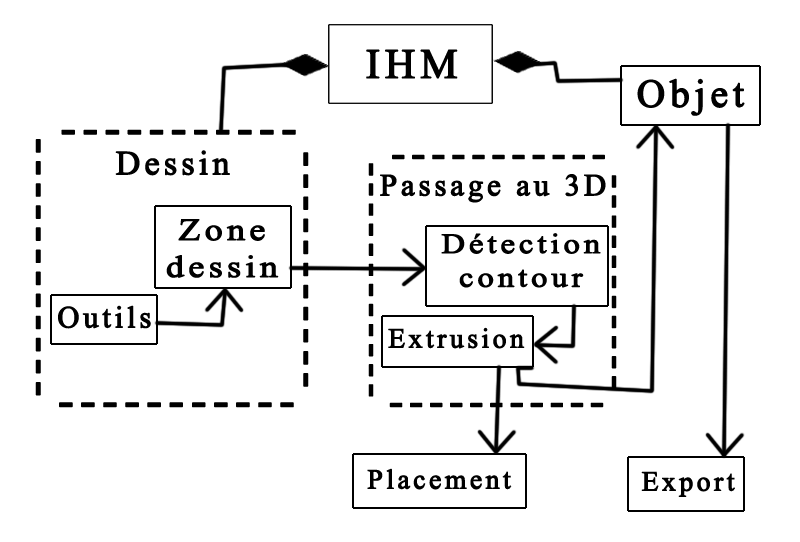
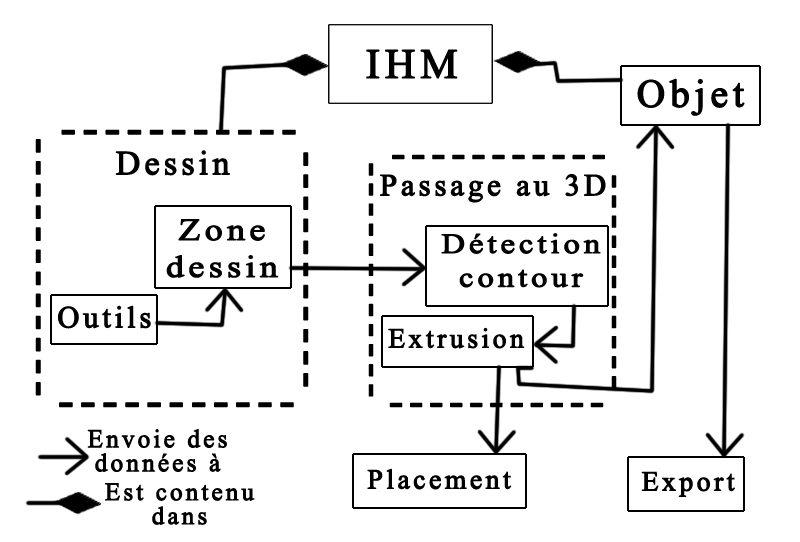
Archiecture/ihm (non corigé)

Changed region(s): [[0.0312, 0.797, 0.3125, 0.9742]]

diff --git a/RapportLaTeX/rapport.tex b/RapportLaTeX/rapport.tex
@@ -57,22 +57,28 @@
 		Une fois tout ces points définis , nous avons pu passer à l'étape suivante, c'est-à-dire l'architecture du logiciel.
 		
 	\section{Architecture logicielle}
-	
+		Nous avons découpé le logiciel en plusieurs sous parties qui peuvent être développer indépendamment. Les liens entre les parties obligent à crée des fonctions qui envoie certaines données. L'avantage de cette découpe est qu'une étape est en majorité indépendante de la précédente. Donc on peut développer et tester chaque partie de façon optimiser avant de tout réunir et lié.
+		
+		Nous avons omis dans le schéma la caméra de prévisualisation, elle est contenu dans
+		'Objet', qui représente l'assemblage des divers dessins 2D extrudés.
+
 				\centerline{\includegraphics[scale=0.5]{images/archi.png}}
 	
-		%découpage des tâches et répartition du travail + explication séances hebdomadaires
-		Dès le début du projet, nous nous sommes divisés le travail et nous avons hébergé notre projet sous GitHub afin que chacun puisse avancer sans pour autant devoir attendre le travail d'un autre membre de notre équipe. Nous avons repéré les axes centraux du développement qui sont : l'affichage de la fenêtre de l'application, la capture et l'affichage du dessin fait par l'utilisateur, l'extrusion de la forme dessinée, le placement de celle-ci, et enfin l'exportation de la figure finale sur un serveur Unity. Ceux-ci ont donc été partagés entre nous.
+	%	Dès le début du projet, nous nous sommes divisés le travail et nous avons hébergé notre projet sous GitHub afin que chacun puisse avancer sans pour autant devoir attendre le travail d'un autre membre de notre équipe. Nous avons repéré les axes centraux du développement qui sont : l'affichage de la fenêtre de l'application, la capture et l'affichage du dessin fait par l'utilisateur, l'extrusion de la forme dessinée, le placement de celle-ci, et enfin l'exportation de la figure finale sur un serveur Unity. Ceux-ci ont donc été partagés entre nous.
 		
-		Afin de faire un point régulier et d'être sûr de répondre aux exigences de notre encadrant, nous nous sommes réunis hebdomadairement. Au cours de ces séances, nous pouvions ainsi voir le travail effectué par les différents membres de notre projet et nous pouvions bénéficier de l'expérience de M. François LEHERICEY avec Unity pour les problèmes dont nous ne trouvions pas les solutions.
+	%	Afin de faire un point régulier et d'être sûr de répondre aux exigences de notre encadrant, nous nous sommes réunis hebdomadairement. Au cours de ces séances, nous pouvions ainsi voir le travail effectué par les différents membres de notre projet et nous pouvions bénéficier de l'expérience de M. François LEHERICEY avec Unity pour les problèmes dont nous ne trouvions pas les solutions.
 
-	\section{Présentation de l'application}
+	\section{Etape par étape}
 		%combien de temps passé pour chaque tâche
 		%Problèmes rencontrées et solutions apportées, en quoi ces solutions ont été utilisées par la suite
 		\subsection{L'IHM}
-			Nous devions d'abord créer le design de l'Interface Homme-Machine (IHM). Nous avons défini sur papier à quoi devaient ressembler les divers menus. Afin de les mettre en place sous Unity, nous avons dû nous servir de la mise à jour 4.6 qui contient un système de fenêtres adapté à la création de menus (UI), sortie fin novembre 2014. Au vu de sa date de sortie récente, nous avions accès à peu d'aides sur Internet. Après une avancée assez laborieuse sur le début, nous avons réussi à mettre en place le canevas\footnote{Un canvas, dans Unity, est une zone où l'on peut insérer et positionner d'autres objets.} principal. 
+			La difficulté de la création de l'Interface Homme-Machine (IHM) étais de concevoir un espace ergonomique et adapté pour recevoir le reste des éléments de l'application. Après une conception sur papier pour assurer l'adaptabilité, nous avant développer cela avec des outils récemment intégré à Unity, les 'UI', ils sont dédiés à la création de fenêtres et de menus. Leur utilisation limite la production de code de notre part et permet une gestion plus optimisé de ces éléments.
 			
-			Le temps passé sur cette partie, nous avons permis d'acquérir les connaissances nécessaires sur les outils UI d'Unity et donc d'avancer plus rapidement dans la suite du développement. De plus, les différents boutons étaient en place et n'attendaient plus que les scripts écrits dans les autres parties.
-		
+			Voici donc l'IHM finale, avec une zone de dessins (1) et qui servira pour le placement, une barre d'outils (2), une zone pour la prévisualisation (3) et une dernière pour la possible future gestion des figures créée (4).
+			
+			\centerline{\includegraphics[scale=0.5]{images/ihm.png}}
+
+			Chaque boutons ouvrent sur des fenêtres qui n'attendent plus que la liaisons avec les fonctions des autres sections de l'application.
 		\subsection{Le dessin}
 			La capture du dessin étant une partie lourde, nous avons décidé de séparer les outils de cette partie. C'est la personne en charge de l'IHM, donc déjà accoutumée avec les menus qui s'en sont occupés.
 		
@@ -99,7 +105,6 @@
 		
 			Pour placer une figure dans le décor 3D, il faut créer des menus pour diriger celle-ci. Et intégrer une caméra qui filmerait l'objet courant selon ses axes. Après de multiples recherches sur la gestion des caméras Unity, nous avons finalement réussi à écrire un script assurant ce suivi avec une possibilité de changer aisément l'axe de vue. Ensuite il y a eu la mise en place d'un menu pour diriger notre figure. Celui-ci est relativement simple à mettre en place aux vues de ce que l'on a réalisé précédemment dans l'IHM. La difficulté de cette partie est de concevoir un script pour modifier la taille de notre figure.
 
-		\subsection{La gestion de la liste des figures}
 		\subsection{L'envoi}
 			Un fois l'objet en 3D créé, nous devons l'envoyer à un serveur qui affichera cet objet dans une scène 3D.
 			Nous avons tout d'abord pensé utiliser les assets , c'est-à-dire les classes, propres à Unity gérant le réseau entre différentes applications Unity. Mais nous avons très vite été confronté à un problème: Unity est avant tout un moteur de jeu, et les classes sont développées dans cette optique.
